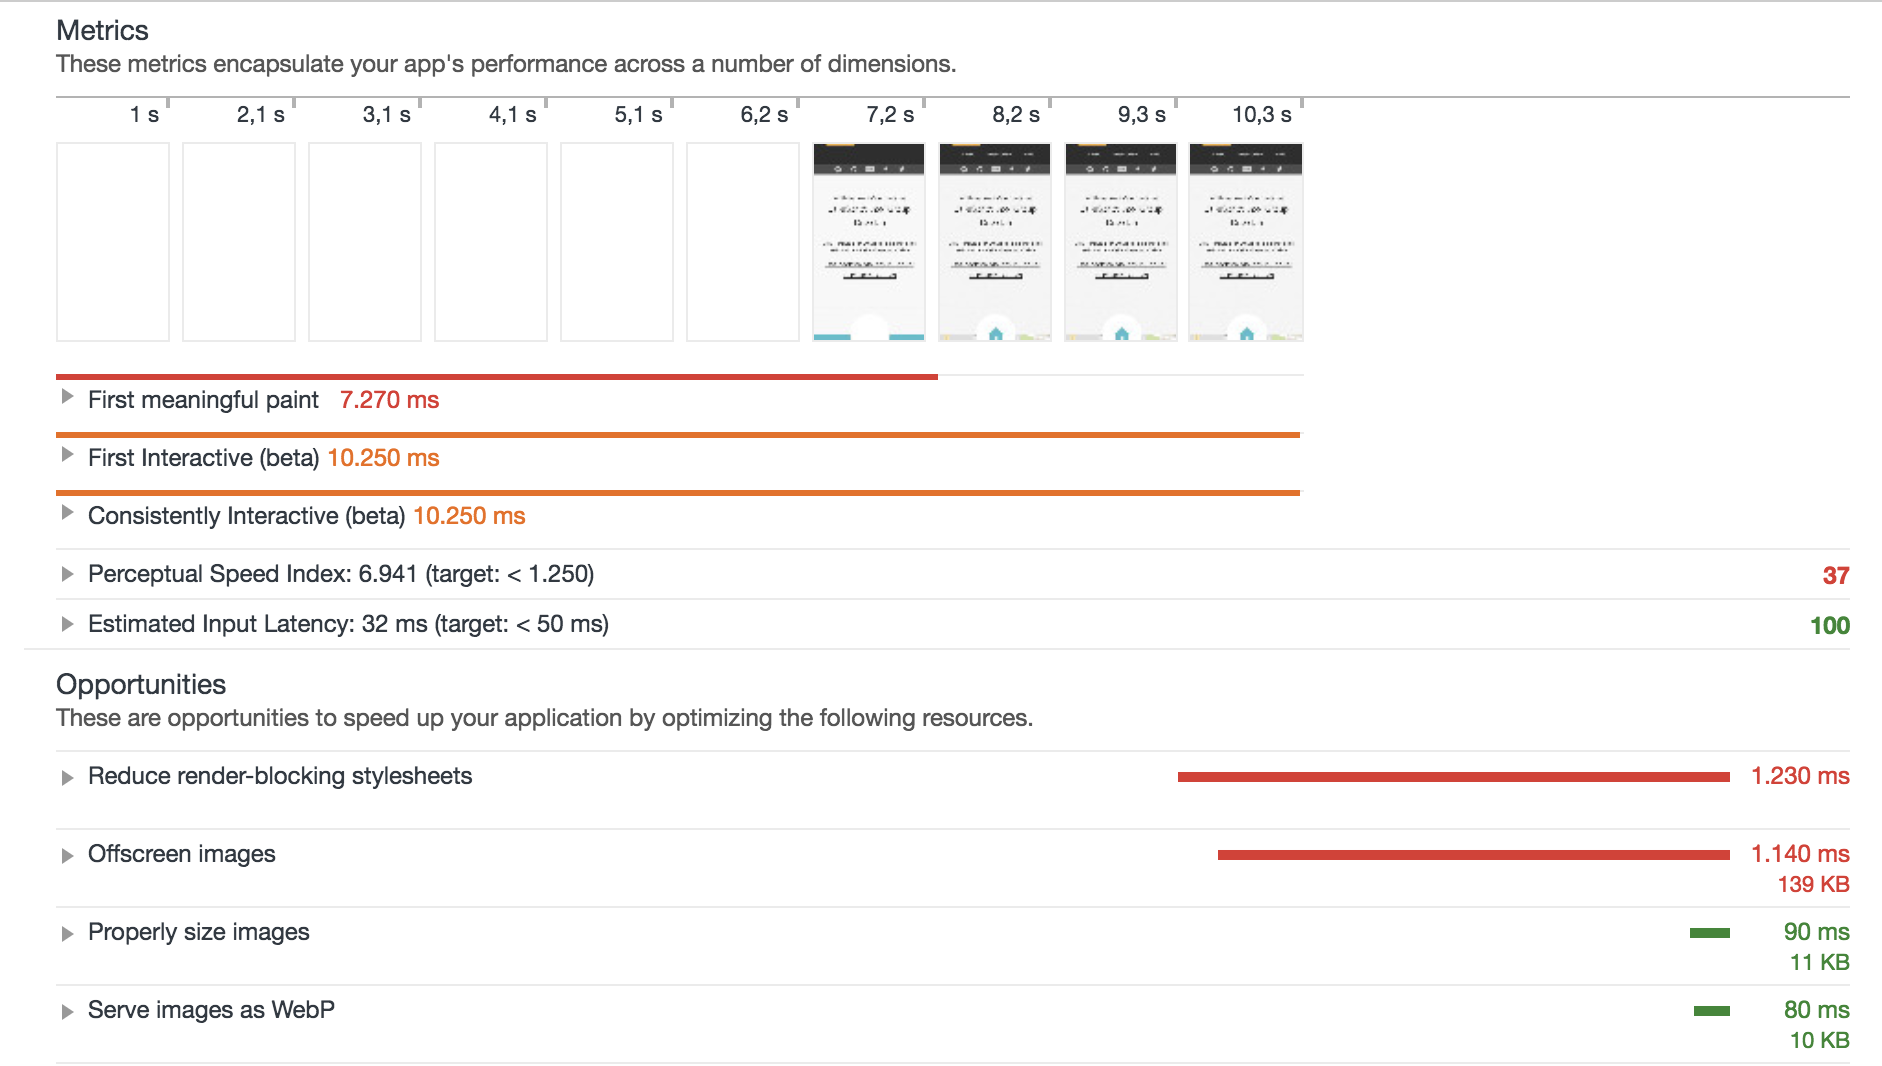
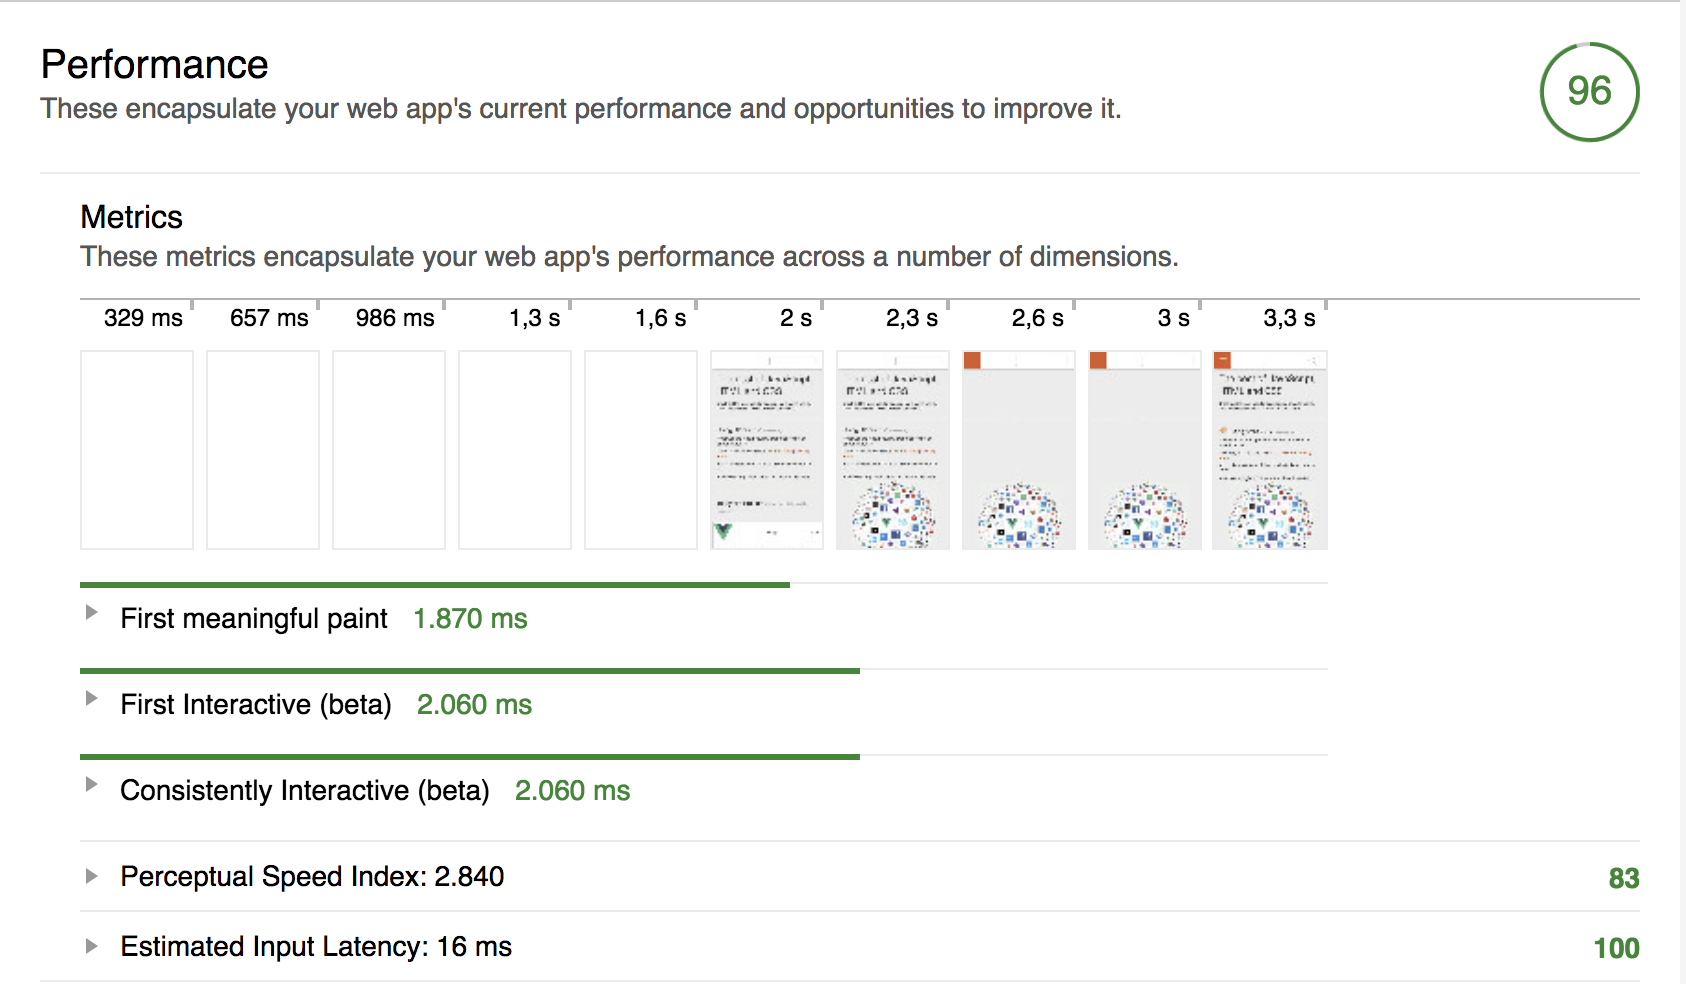
use bestofjs as lighthouse source

diff --git a/PITCHME.md b/PITCHME.md
@@ -63,7 +63,7 @@ Extensibility, bind to own test runners (travis ...), etc
 
 ## What is Lighthouse?
 
-![](assets/image/ddjs_lighthouse_audit.gif "Lighthouse Audit")
+![](assets/image/bojs_lighthouse_audit.gif "Lighthouse Audit")
 
 ---
 
@@ -183,7 +183,7 @@ Passes: load our gatherer on the defaultPass section of lh
 ## So what we got now
 
 ```bash
-lighthouse --config-path=./custom-config.js http://dresdenjs.io --view
+lighthouse --config-path=./custom-config.js https://bestof.js.org/ --view
 ```
 
 ![](assets/image/custom-perf-audit.png "Custom Perf Audit")
